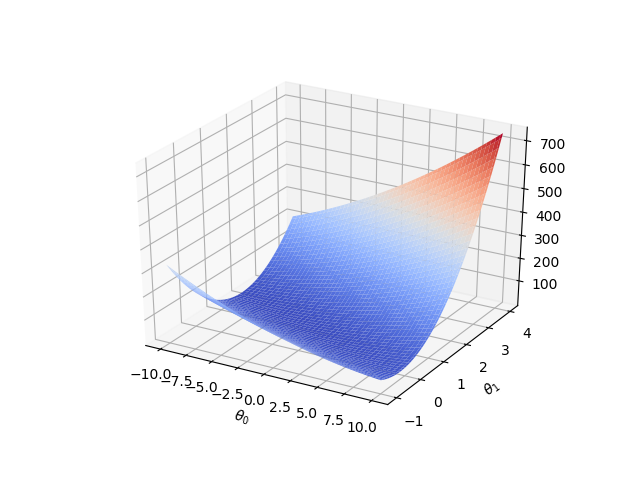
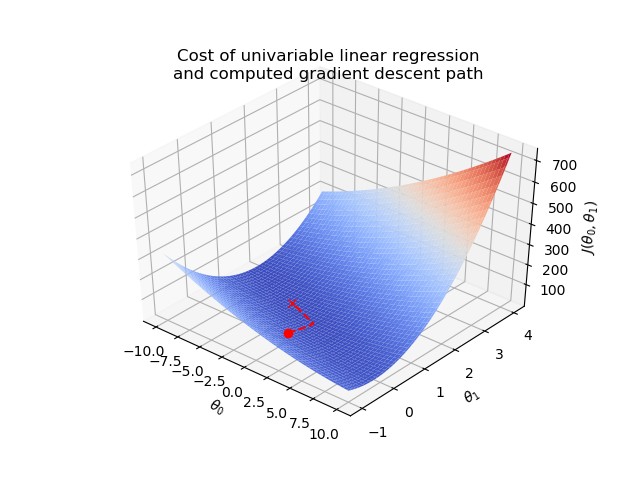
ex1: 3D plot now shows descent path

diff --git a/ex1/ex1.py b/ex1/ex1.py
@@ -17,12 +17,23 @@ def load_data(filename):
         data = np.array(pd.read_csv(f, header=None))
     return data[:,:-1], data[:,-1]
 
-def plotData(X, y):
-    plt.plot(X, y, 'd', markersize=8, markerfacecolor="lightblue", label="Training data")
+def plotData(X, y, theta=None):
+    plt.plot(X, y, 'd', markersize=8, markerfacecolor="lightblue",
+            label="Training data")
     plt.xlabel("Population of city, 10,000s")
     plt.ylabel("Profit, $10,000s")
     plt.title("Training data")
+    if not theta is None:
+        plt.plot(X, np.dot(add_column_of_ones(X), theta).T[0],
+                 label="Linear regression")
+        plt.legend()
+        plt.title("Training data and computed linear regression\n"
+                  "with parameters $\\theta \\approx [{0[0]:.1f},{0[1]:.1f}]$"
+                  .format(theta.T[0]))
 
+def add_column_of_ones(X):
+    return np.hstack([np.ones((X.shape[0],1)), X])
+            
 def computeCost(X, y, theta):
     """X should have first columnt made of 1s"""
     m = y.shape[0]
@@ -34,12 +45,14 @@ def computeCost(X, y, theta):
 def gradientDescent(X, y, theta, alpha, iterations):
     """y should be vertical vector, that is array of shape (m,1)"""
     m = len(y)
-    J_history = np.empty(iterations)
-    descent_path = np.empty((iterations,theta.shape[0]))
+    J_history = np.empty(iterations+1)
+    descent_path = np.empty((iterations+1,theta.shape[0]))
     for i in range(iterations):
         descent_path[i] = theta.T[0]
-        theta = theta - alpha / m * np.dot(np.dot(X, theta).T - y.T, X).T
         J_history[i] = computeCost(X, y, theta)
+        theta = theta - alpha / m * np.dot(np.dot(X, theta).T - y.T, X).T
+    descent_path[-1] = theta.T[0]
+    J_history[-1] = computeCost(X, y, theta)
     return theta, J_history, descent_path
 
 def featureNormalize(X):
@@ -61,7 +74,7 @@ def predict(x, theta, mu=None, sigma=None):
         mu = np.zeros(len(x))
     if sigma is None:
         sigma = np.ones(len(x))
-    return np.dot(np.hstack([np.ones((1,1)), ((x-mu)/sigma).reshape(1, -1)]), theta)[0,0]
+    return np.dot(add_column_of_ones(((x-mu)/sigma).reshape(1, -1)), theta)[0,0]
 
 def normalEqn(X, y):
     from numpy import dot
@@ -77,50 +90,56 @@ if __name__ == "__main__":
 
     print("Dataset contains", m1, "examples with", n1, "feature(s).")
 
-    print("Plotting data...")
+    print("First 10 examples from the dataset:")
+    print(np.hstack([X1[:10], y1[:10].reshape(-1,1)]))
+    print()
+
+    #print("Plotting data...")
 
     plotData(X1, y1)
     #plt.show()
     
     print("Testing cost function...")
 
-    # add vertical vector as the first column of X1
-    X1a = np.hstack([np.ones((X1.shape[0],1)), X1])
+    # add vertical vector as the first column
+    X1a = add_column_of_ones(X1)
     y1a = y1.reshape(-1,1)
 
-    theta = np.zeros((n1+1,1))
-    J = computeCost(X1a, y1a, theta)
-    print("With theta = {} cost J(theta) = {}".format(theta.T[0], J))
-
-    theta = np.array([[-1], [2]])
-    J = computeCost(X1a, y1a, theta)
-    print("With theta = {} cost J(theta) = {}".format(theta.T[0], J))
+    for theta in [np.zeros((X1a.shape[1],1)), np.array([[-1], [2]])]:
+        J = computeCost(X1a, y1a, theta)
+        print("  for theta = {} the cost J(theta) = {}".format(list(theta.T[0]), J))
 
     print("Running gradient descent...")
 
     alpha = 0.01
     iterations = 1500
-    theta_start = np.zeros((n1+1,1))
-    theta, J_history, descent_path = gradientDescent(X1a, y1a, theta_start, alpha, iterations)
+    theta = np.zeros((X1a.shape[1],1))
+    theta, J_history, descent_path = \
+            gradientDescent(X1a, y1a, theta, alpha, iterations)
+
+    assert list(descent_path[-1]) == list(theta.T[0])
+    assert J_history[-1] == computeCost(X1a, y1a, theta)
 
     print("For alpha = {alpha} after {iterations} iterations of gradient "
-          "descent found theta = {theta}, J(theta) = {J}".format(
+          "descent found:\n"
+          "  theta = {theta}\n"
+          "  J(theta) = {J}"
+          .format(
               theta=theta.T[0],
               J=computeCost(X1a, y1a, theta),
               alpha=alpha,
               iterations=iterations))
-    
-    plt.figure()
-    plotData(X1, y1)
-    plt.plot(X1a[:,1], np.dot(X1a, theta).T[0], label="Linear regression $\\theta = [{:.2f},{:.2f}]$".format(theta.T[0,0], theta.T[0,1]))
-    plt.legend()
-    plt.title("Training data and computed linear regression")
 
+    print("Testing prediction...")
     for population in [3.5, 7]:
-        prediction = np.dot([[1, population]], theta)[0][0]
-        print("For population of {:n} we predict a profit of {}".format(
+        #prediction = np.dot([[1, population]], theta)[0][0]
+        prediction = predict([population], theta)
+        print("  For population of {:n} we predict a profit of ${}".format(
             population*10000,
             prediction*10000))
+    
+    plt.figure()
+    plotData(X1, y1, theta)
 
     print('Visualizing J(theta_0, theta_1)...')
 
@@ -140,23 +159,36 @@ if __name__ == "__main__":
     th0, th1 = np.meshgrid(theta0_vals, theta1_vals)
     plt.gca(projection="3d")
     plt.gca().plot_surface(th0, th1, J_vals, cmap=cm.coolwarm)
+    plt.gca().plot(descent_path[:,0], descent_path[:,1], J_history, "r--",
+                   label="Descent path")
+    plt.gca().plot([descent_path[ 0,0]], [descent_path[ 0,1]], [J_history[ 0]],
+                      color='red', marker='o', label="Starting point")
+    plt.gca().plot([descent_path[-1,0]], [descent_path[-1,1]], [J_history[-1]],
+                      color='red', marker='x', label="End point")
     plt.xlabel(r"$\theta_0$")
     plt.ylabel(r"$\theta_1$")
+    plt.gca().set_zlabel(r"$J(\theta_0,\theta_1)$")
+    plt.title("Cost of univariable linear regression\n"
+              "and computed gradient descent path")
 
     plt.figure()
-    plt.plot(theta_start[0,0], theta_start[1,0], "ro", label="Starting point")
-    plt.plot(descent_path[:,0], descent_path[:,1], "r--", label="Descent path")
     plt.contour(theta0_vals, theta1_vals, J_vals, np.logspace(-2, 3, 20))
+    plt.plot(descent_path[:,0], descent_path[:,1], "r--", label="Descent path")
+    plt.plot(descent_path[0,0], descent_path[0,1], "ro",
+             label="Starting point [{:.1f},{:.1f}]".format(
+                 descent_path[0,0], descent_path[0,1]))
+    plt.plot(descent_path[-1,0], descent_path[-1,1], "rx",
+             label="End point [{:.1f},{:.1f}]".format(
+                 descent_path[-1,0], descent_path[-1,1]))
+    plt.title("Gradient descent for univariable regression\n"
+              "with $\\alpha = {}$ and {} iterations".format(alpha, iterations))
     plt.xlabel(r"$\theta_0$")
     plt.ylabel(r"$\theta_1$")
-    plt.plot(theta[0,0], theta[1,0], "rx", markersize=10, linewidth=2, label="Final point")
-    plt.title("Gradient descent with $\\alpha = {}$ "
-              "for {} iterations".format(alpha, iterations))
     plt.legend()
 
     #plt.show()
-    print()
 
+    print()
     print("Loading second dataset...")
 
     X2, y2 = load_data("ex1data2.txt")
@@ -178,20 +210,20 @@ if __name__ == "__main__":
 
     print("Solving with gradient descent...")
     # add vertical vector of ones as the first column of X1
-    X2a = np.hstack([np.ones((X2n.shape[0],1)), X2n])
+    X2a = add_column_of_ones(X2n)
     y2a = y2.reshape(-1,1)
 
     iterations = 400
     alphas = [1.284, 1, 0.3, 0.1, 0.03, 0.01, 0.003]
-    thetas = {}
+    thetas = dict()
     plt.figure()
     for alpha in alphas:
         theta = np.zeros((X2a.shape[1],1))
-        theta, J_history, _ = \
+        theta, J_history, descent_path = \
                 gradientDescent(X2a, y2a, theta, alpha, iterations)
         thetas[alpha] = theta
-        print(" For alpha = {} after {} iteration found theta = {} with cost = "
-              "{}".format(alpha, iterations, list(theta.T[0]), J_history[-1]))
+        print("  For alpha = {} after {} iteration found theta = {} with cost "
+              "= {}".format(alpha, iterations, list(theta.T[0]), J_history[-1]))
         plt.plot(range(len(J_history)), J_history, label=alpha)
     plt.xlabel("Number of iterations")
     plt.ylabel("Cost of linear regression $J(\\theta)$")
@@ -204,17 +236,17 @@ if __name__ == "__main__":
               "iterations): {}".format(alpha, iterations, list(theta.T[0])))
         print("Predicted price of a 1650 sq-ft, 3 br house (using gradient "
               "descent with alpha = {} and {} iterations): {}".format(alpha,
-                  iterations, predict(np.array([1650, 3]), theta, mu, sigma)))
+                  iterations, predict([1650, 3], theta, mu, sigma)))
 
     print()
     print("Solving with normal equations...")
 
-    X2a = np.hstack([np.ones((X2.shape[0],1)), X2])
+    X2a = add_column_of_ones(X2)
     theta = normalEqn(X2a, y2a)
 
     print("Theta computed from the normal equations:", list(theta.T[0]))
 
     print("Predicted price of a 1650 sq-ft, 3 br house (using normal "
-          "equations):", predict(np.array([1650, 3]), theta))
+          "equations):", predict([1650, 3], theta))
 
     plt.show()
